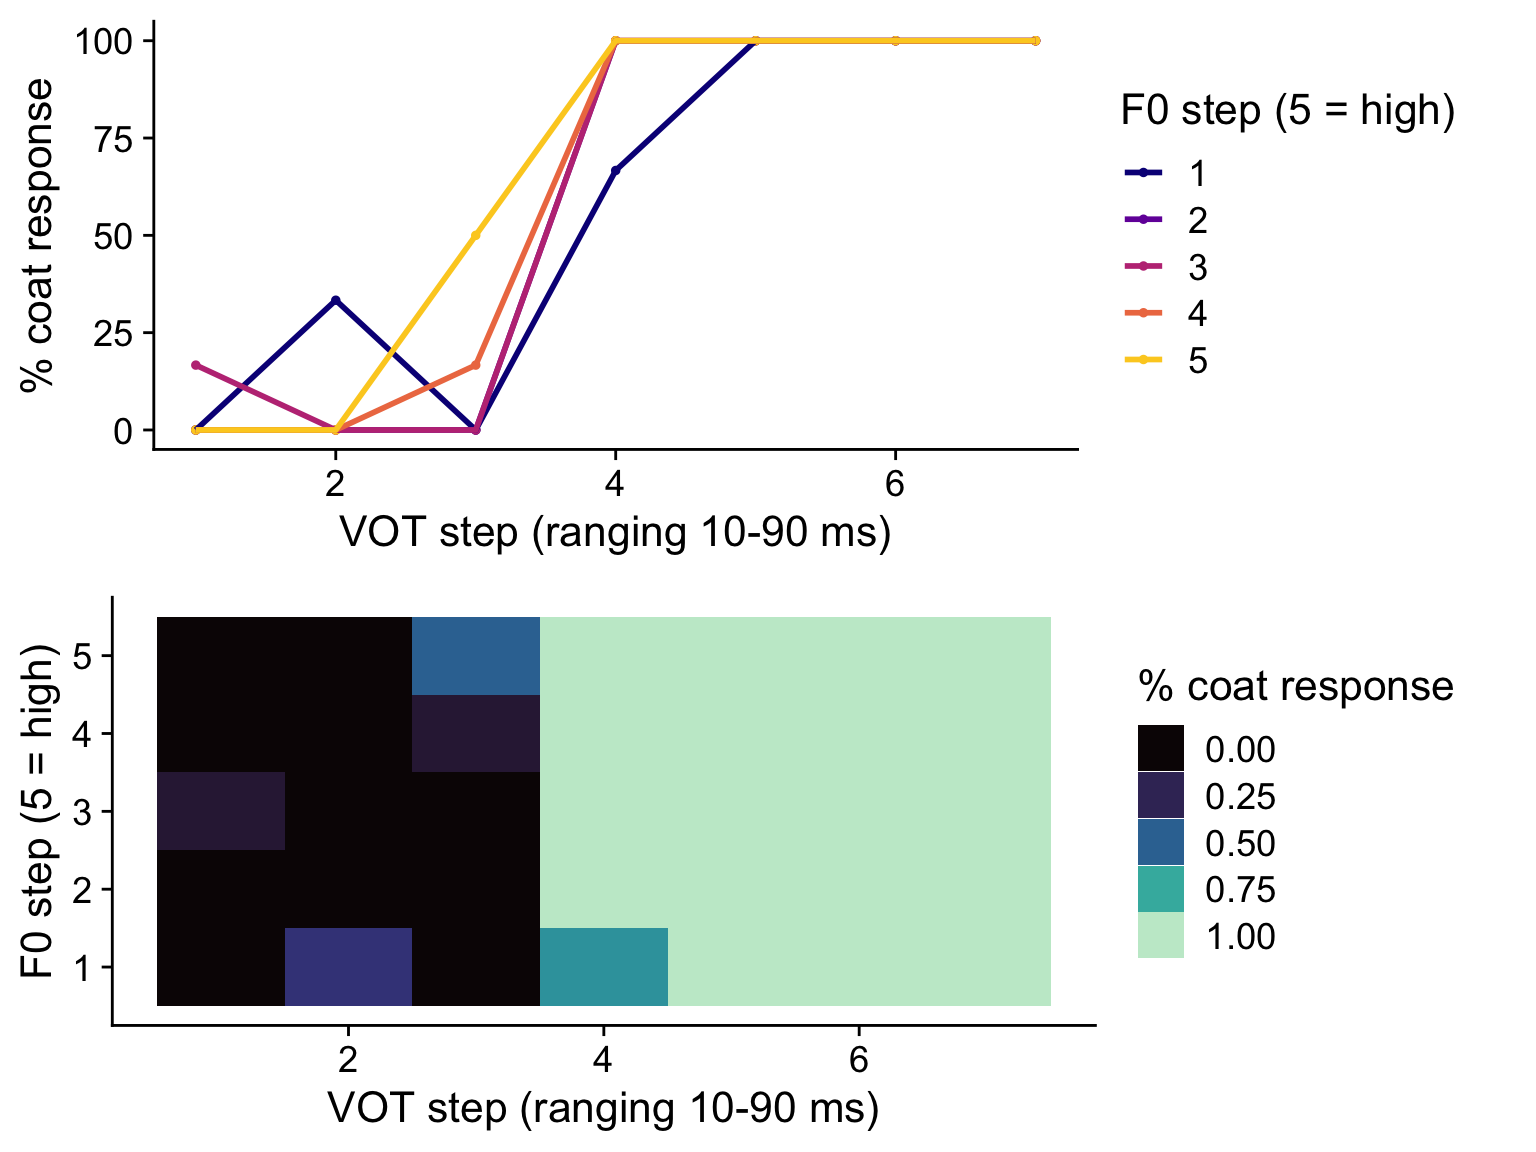
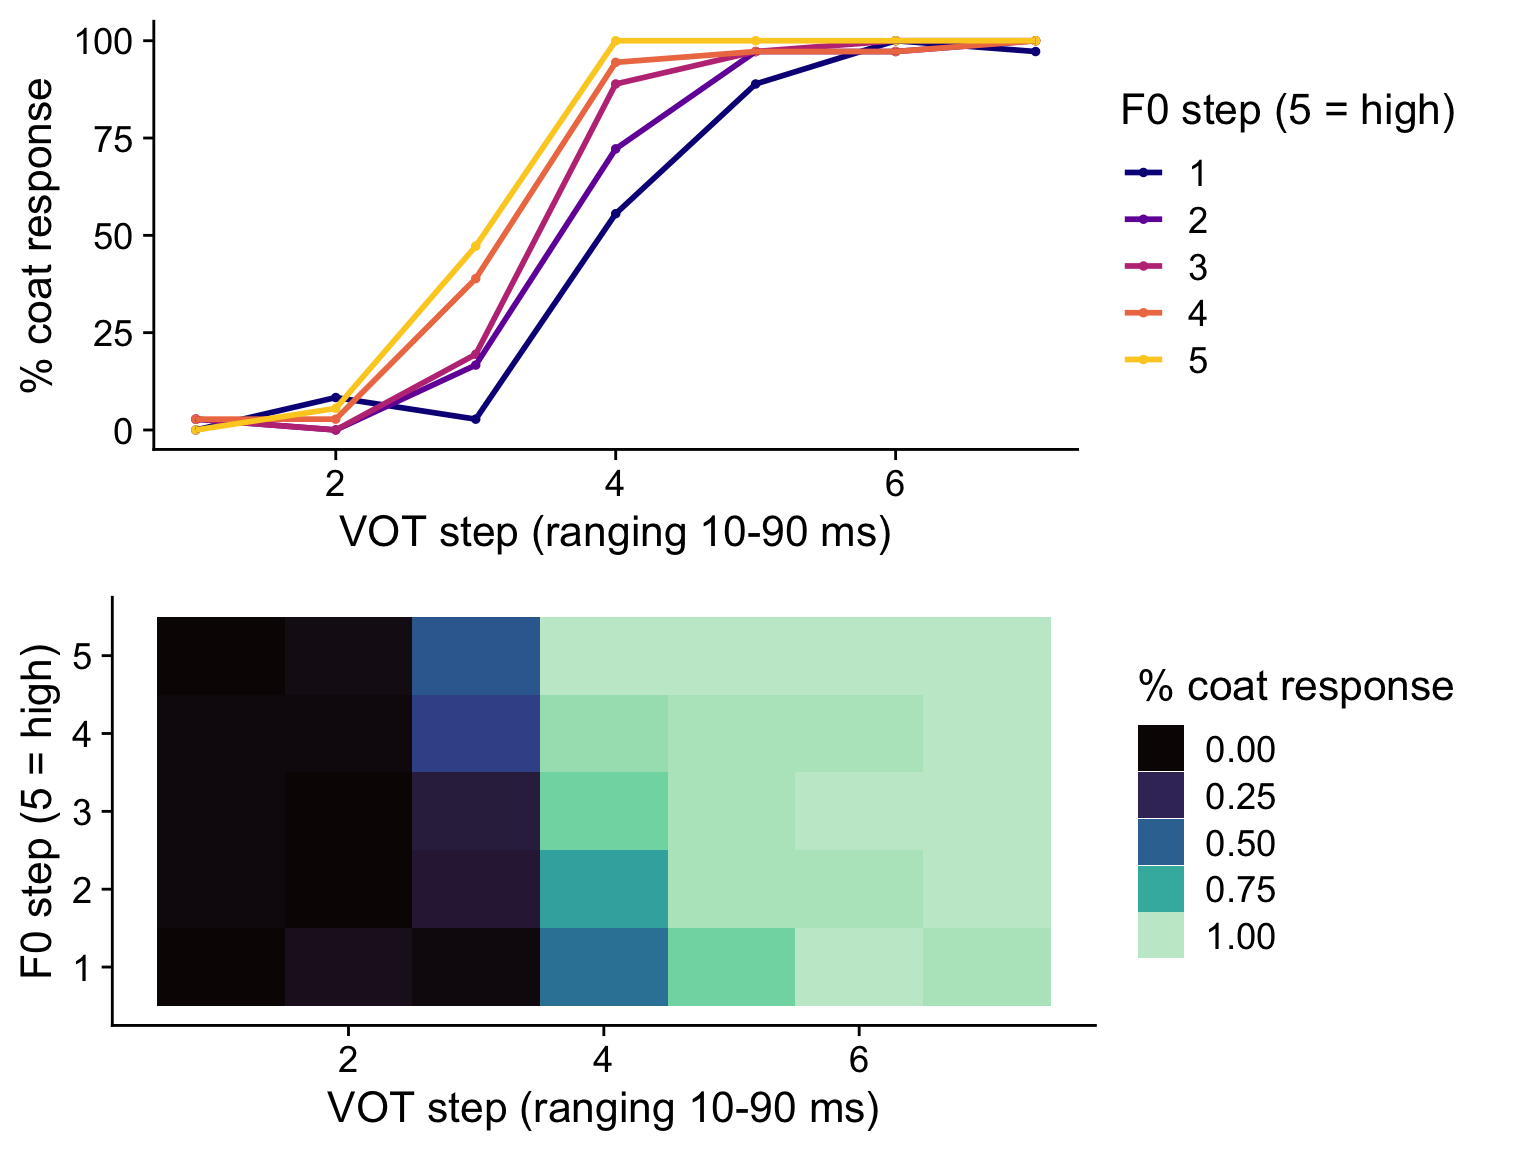
update

Changed region(s): [[0.1875, 0.5938, 0.5312, 0.875], [0.125, 0.0312, 0.6875, 0.375], [0.0938, 0.6562, 0.1875, 0.75]]

diff --git a/GRsem2025/percept_cat.html b/GRsem2025/percept_cat.html
@@ -169,7 +169,7 @@ ul.task-list li input[type="checkbox"] {
 <p>You can find the experiment <a href="https://tstbl.co/352-440">here</a>.</p>
 <section id="results" class="level3" data-number="1.0.1">
 <h3 data-number="1.0.1" class="anchored" data-anchor-id="results"><span class="header-section-number">1.0.1</span> Results</h3>
-<p>Here are the overall categorisation functions, shown in two different ways below. (These are just responses from Jeremy, currently)</p>
+<p>Here are the overall categorisation functions, shown in two different ways below.</p>
 <div class="cell">
 <div class="cell-output-display">
 <div>
@@ -184,7 +184,7 @@ ul.task-list li input[type="checkbox"] {
 <div class="cell-output-display">
 <div>
 <figure class="figure">
-<p><img src="percept_cat_files/figure-html/unnamed-chunk-3-1.png" class="img-fluid figure-img" width="480"></p>
+<p><img src="percept_cat_files/figure-html/unnamed-chunk-3-1.png" class="img-fluid figure-img" width="768"></p>
 </figure>
 </div>
 </div>
